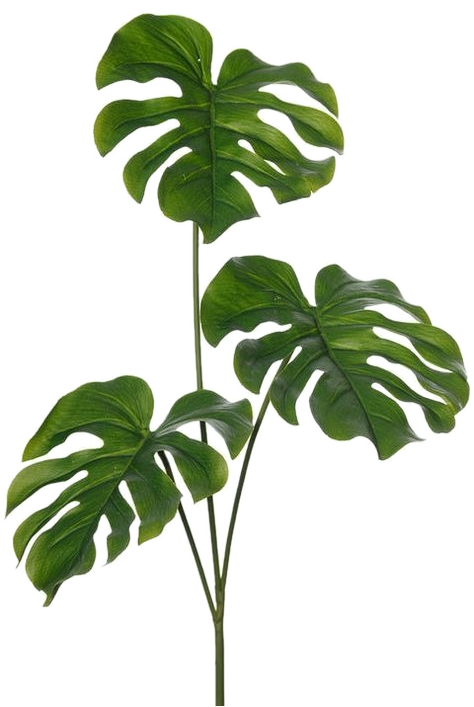
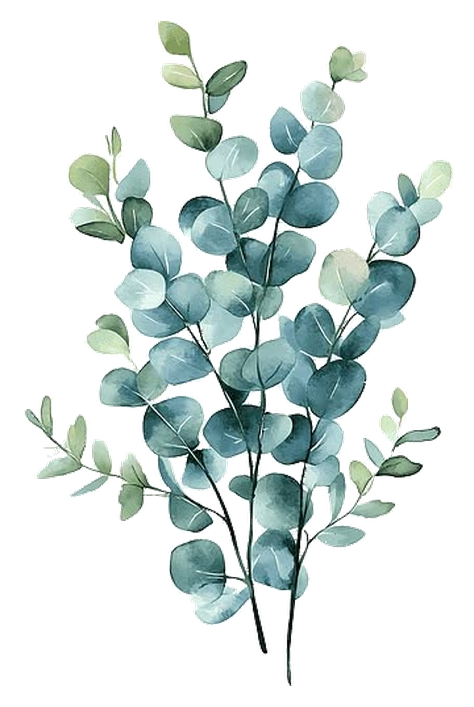
Replace fifth foliage option (monstera branch) with the new watercolor eucalyptus branch and adjust its CSS scale to scale(1.15) for proper framing

diff --git a/index.css b/index.css
@@ -761,7 +761,7 @@ body.stage-garden .hearts-bg-container {
   transform: translate(-50%, -50%) scale(0.95); /* adjusted scale for better framing and visibility */
 }
 .foliage-type-5 {
-  transform: translate(-50%, -50%) scale(1.25); /* scaled up for better visibility and framing */
+  transform: translate(-50%, -50%) scale(1.15); /* watercolor eucalyptus branch, adjusted for proper framing */
 }
 .foliage-type-6 {
   transform: translate(-50%, -50%) scale(1.15); /* green leaves branch */